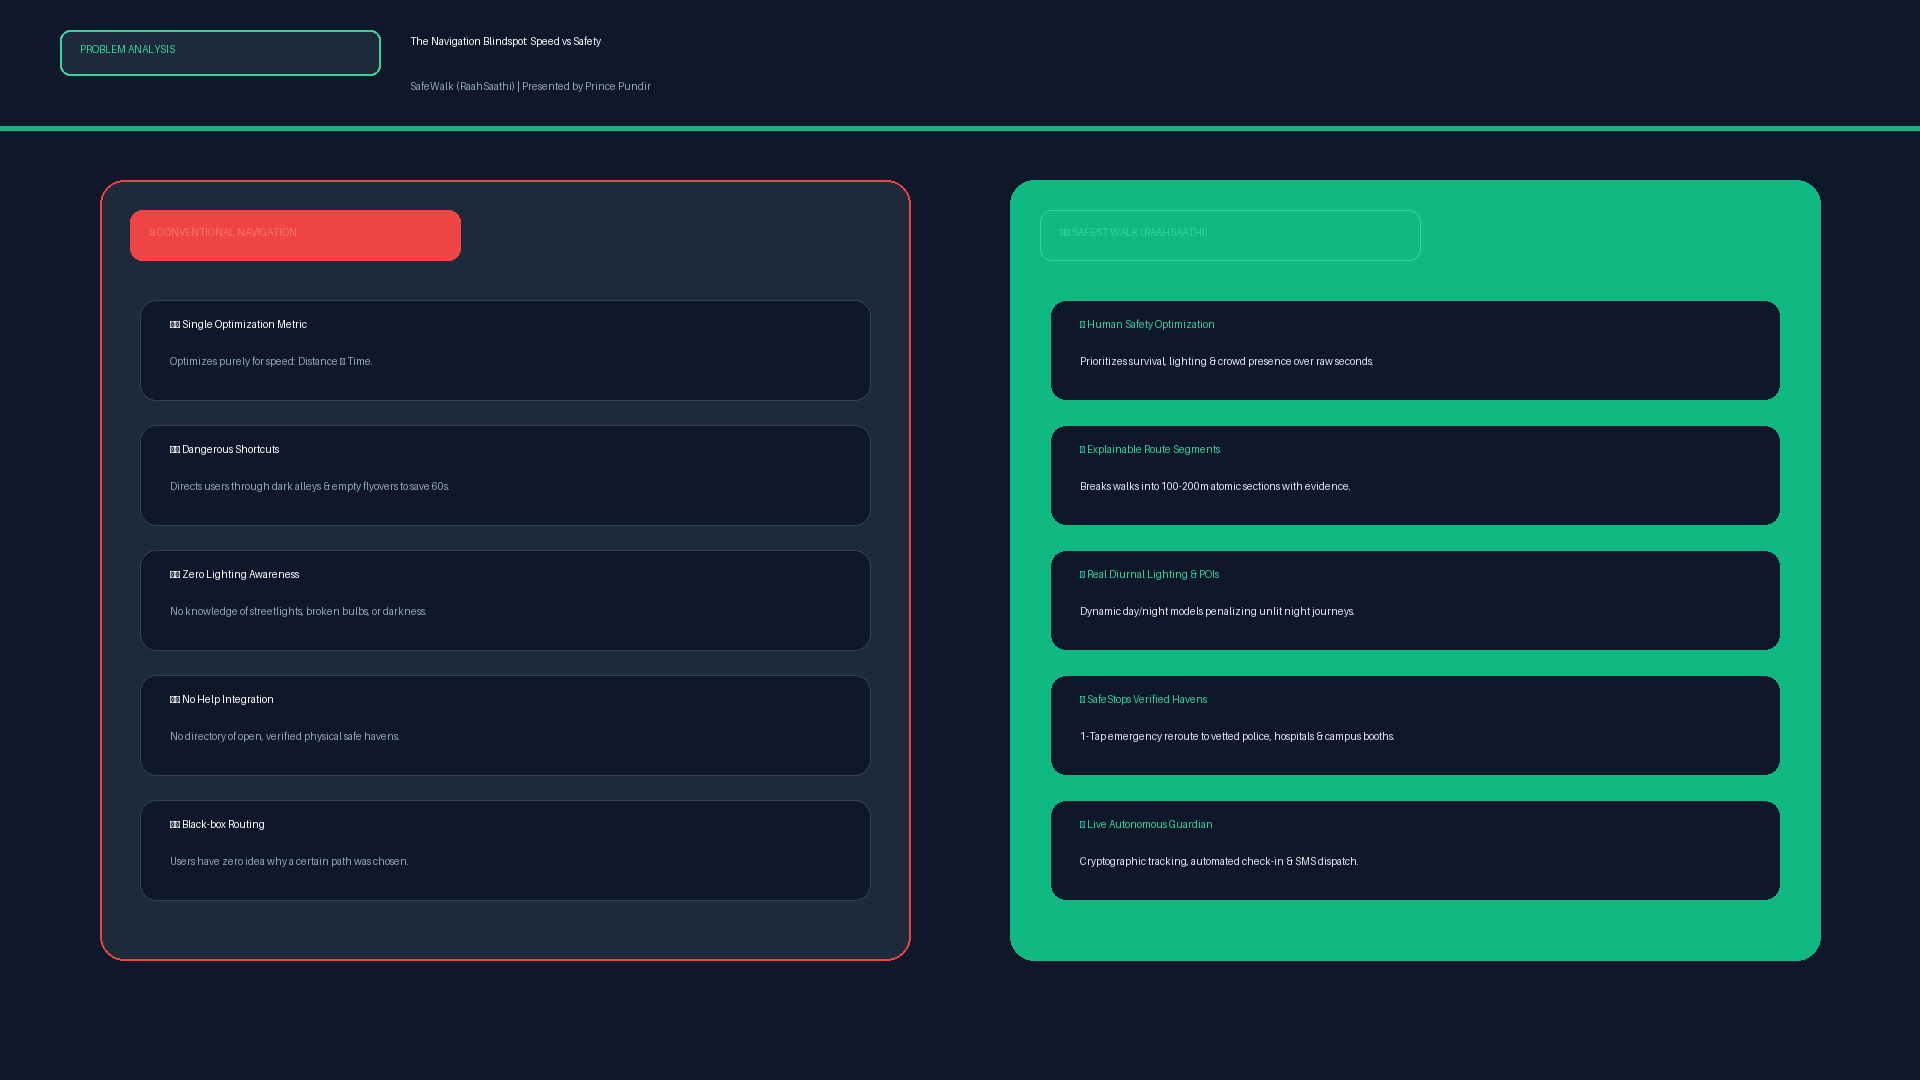
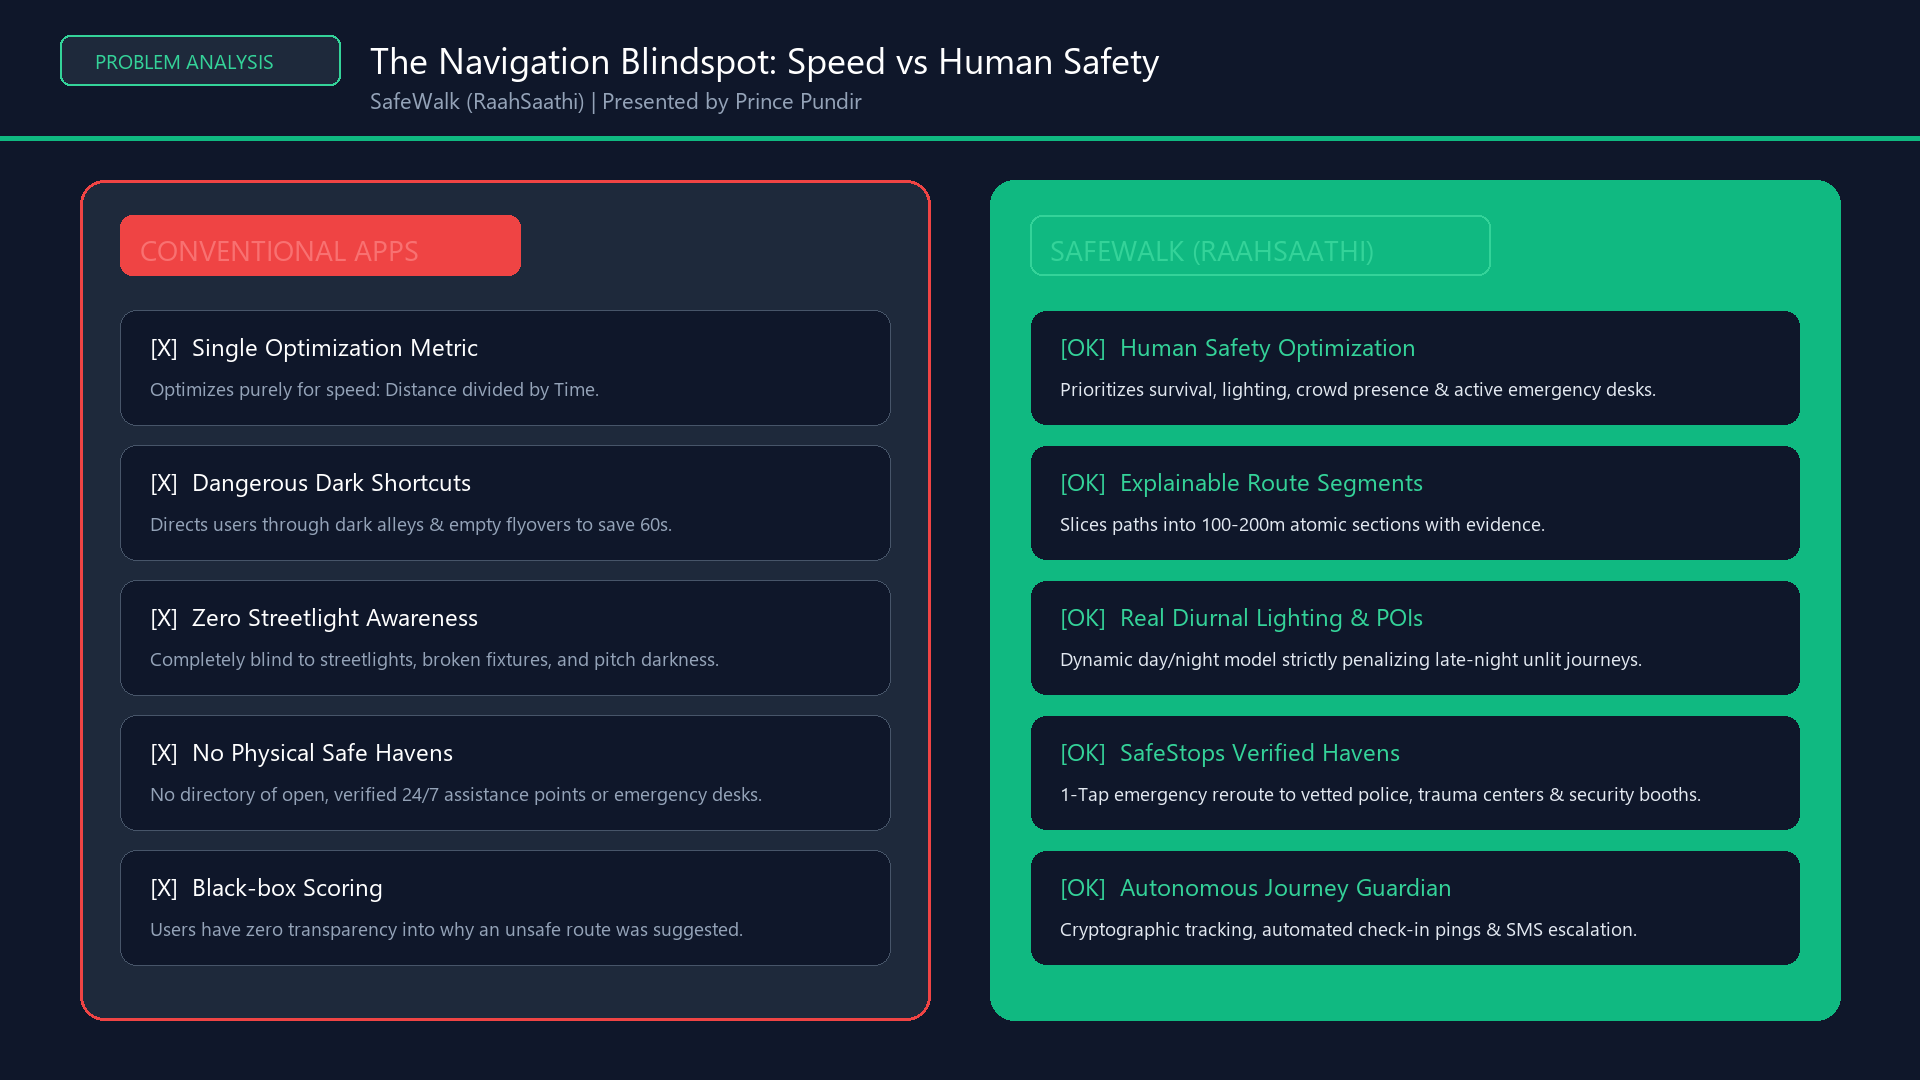
style(docs): enhance typography and legibility of problem matrix and architecture screenshots

diff --git a/render_crisp_graphics.py b/render_crisp_graphics.py
@@ -1,0 +1,139 @@
+import os
+from PIL import Image, ImageDraw, ImageFont
+
+W, H = 1920, 1080
+os.makedirs("docs/screenshots", exist_ok=True)
+os.makedirs("video-production/graphics", exist_ok=True)
+
+# Crisp large fonts
+font_title = ImageFont.truetype("segoeui.ttf", 36)
+font_subtitle = ImageFont.truetype("segoeui.ttf", 22)
+font_category = ImageFont.truetype("segoeui.ttf", 20)
+font_col_header = ImageFont.truetype("segoeui.ttf", 28)
+font_card_title = ImageFont.truetype("segoeui.ttf", 24)
+font_card_body = ImageFont.truetype("segoeui.ttf", 19)
+
+def draw_header(draw, title, category):
+    draw.rectangle([0, 0, W, 140], fill=(15, 23, 42, 255))
+    draw.rectangle([0, 136, W, 140], fill=(16, 185, 129, 255))
+    # Category Pill
+    draw.rounded_rectangle([60, 35, 340, 85], radius=10, fill=(30, 41, 59, 255), outline=(52, 211, 153, 255), width=2)
+    draw.text((95, 47), category, font=font_category, fill=(52, 211, 153, 255))
+    # Title & Subtitle
+    draw.text((370, 35), title, font=font_title, fill=(255, 255, 255, 255))
+    draw.text((370, 85), "SafeWalk (RaahSaathi) | Presented by Prince Pundir", font=font_subtitle, fill=(148, 163, 184, 255))
+
+def generate_crisp_graphic_01():
+    img = Image.new("RGBA", (W, H), (15, 23, 42, 255))
+    draw = ImageDraw.Draw(img)
+    draw_header(draw, "The Navigation Blindspot: Speed vs Human Safety", "PROBLEM ANALYSIS")
+
+    # Column 1: Conventional Navigation
+    draw.rounded_rectangle([80, 180, 930, 1020], radius=24, fill=(30, 41, 59, 240), outline=(239, 68, 68, 255), width=3)
+    draw.rounded_rectangle([120, 215, 520, 275], radius=12, fill=(239, 68, 68, 50), outline=(239, 68, 68, 200), width=2)
+    draw.text((140, 230), "CONVENTIONAL APPS", font=font_col_header, fill=(248, 113, 113, 255))
+    
+    p1 = [
+        ("Single Optimization Metric", "Optimizes purely for speed: Distance divided by Time."),
+        ("Dangerous Dark Shortcuts", "Directs users through dark alleys & empty flyovers to save 60s."),
+        ("Zero Streetlight Awareness", "Completely blind to streetlights, broken fixtures, and pitch darkness."),
+        ("No Physical Safe Havens", "No directory of open, verified 24/7 assistance points or emergency desks."),
+        ("Black-box Scoring", "Users have zero transparency into why an unsafe route was suggested.")
+    ]
+    for i, (hd, sub) in enumerate(p1):
+        y = 310 + i * 135
+        draw.rounded_rectangle([120, y, 890, y + 115], radius=16, fill=(15, 23, 42, 230), outline=(71, 85, 105, 200), width=1)
+        draw.text((150, y + 20), f"[X]  {hd}", font=font_card_title, fill=(255, 255, 255, 255))
+        draw.text((150, y + 65), sub, font=font_card_body, fill=(148, 163, 184, 255))
+
+    # Column 2: SafeWalk (RaahSaathi)
+    draw.rounded_rectangle([990, 180, 1840, 1020], radius=24, fill=(16, 185, 129, 25), outline=(16, 185, 129, 255), width=3)
+    draw.rounded_rectangle([1030, 215, 1490, 275], radius=12, fill=(16, 185, 129, 60), outline=(52, 211, 153, 220), width=2)
+    draw.text((1050, 230), "SAFEWALK (RAAHSAATHI)", font=font_col_header, fill=(52, 211, 153, 255))
+
+    p2 = [
+        ("Human Safety Optimization", "Prioritizes survival, lighting, crowd presence & active emergency desks."),
+        ("Explainable Route Segments", "Slices paths into 100-200m atomic sections with evidence."),
+        ("Real Diurnal Lighting & POIs", "Dynamic day/night model strictly penalizing late-night unlit journeys."),
+        ("SafeStops Verified Havens", "1-Tap emergency reroute to vetted police, trauma centers & security booths."),
+        ("Autonomous Journey Guardian", "Cryptographic tracking, automated check-in pings & SMS escalation.")
+    ]
+    for i, (hd, sub) in enumerate(p2):
+        y = 310 + i * 135
+        draw.rounded_rectangle([1030, y, 1800, y + 115], radius=16, fill=(15, 23, 42, 240), outline=(16, 185, 129, 160), width=1)
+        draw.text((1060, y + 20), f"[OK]  {hd}", font=font_card_title, fill=(52, 211, 153, 255))
+        draw.text((1060, y + 65), sub, font=font_card_body, fill=(226, 232, 240, 255))
+
+    img.convert("RGB").save("docs/screenshots/graphic_01_problem_matrix.png")
+    img.convert("RGB").save("video-production/graphics/graphic_01_problem_matrix.png")
+    print("Regenerated crisp graphic_01_problem_matrix.png with high-res typography!")
+
+def generate_crisp_graphic_02():
+    img = Image.new("RGBA", (W, H), (15, 23, 42, 255))
+    draw = ImageDraw.Draw(img)
+    draw_header(draw, "Under the Hood: Explainable Route Scoring Architecture", "SYSTEM ARCHITECTURE")
+
+    pillars = [
+        ("Streetlight Illumination", "Overpass OSM Surveys & Tag Parsing", "Weight: 25%", (56, 189, 248)),
+        ("Commercial Natural Footfall", "Active POIs, Chemists & Storefronts", "Weight: 30%", (52, 211, 153)),
+        ("Diurnal & Temporal Penalty", "Late-night continuous decay curve", "Weight: 25%", (251, 191, 36)),
+        ("Verified Incident Reports", "Community voting & official sources", "Weight: 20%", (248, 113, 113))
+    ]
+
+    for i, (name, desc, wt, col) in enumerate(pillars):
+        x = 80 + i * 445
+        draw.rounded_rectangle([x, 200, x + 415, 530], radius=20, fill=(30, 41, 59, 240), outline=col, width=2)
+        draw.rounded_rectangle([x + 20, 225, x + 160, 275], radius=8, fill=(15, 23, 42, 255), outline=col, width=1)
+        draw.text((x + 35, 238), f"Pillar {i+1}", font=font_subtitle, fill=col)
+        draw.text((x + 20, 300), name, font=font_card_title, fill=(255, 255, 255, 255))
+        draw.text((x + 20, 360), desc, font=font_card_body, fill=(148, 163, 184, 255))
+        draw.rounded_rectangle([x + 20, 440, x + 200, 495], radius=10, fill=(15, 23, 42, 220))
+        draw.text((x + 40, 455), wt, font=font_subtitle, fill=col)
+
+    draw.rounded_rectangle([80, 580, 1840, 1000], radius=20, fill=(15, 23, 42, 240), outline=(52, 211, 153, 200), width=2)
+    draw.text((120, 615), "THE TWO-DIMENSION COMPUTATION: SAFETY SCORE vs CONFIDENCE AUDIT", font=font_card_title, fill=(52, 211, 153, 255))
+
+    boxes = [
+        ("1. OSRM Road Geometry", "Continuous walking polyline", 120),
+        ("2. Spatial Segmenter", "100-200m atomic road sections", 540),
+        ("3. Confidence Engine", "Separates missing data from safety", 960),
+        ("4. Explainable Audit", "Transparent audit trail for user", 1380)
+    ]
+    for title, sub, bx in boxes:
+        draw.rounded_rectangle([bx, 680, bx + 360, 930], radius=16, fill=(30, 41, 59, 255), outline=(71, 85, 105, 255), width=2)
+        draw.text((bx + 25, 720), title, font=font_card_title, fill=(255, 255, 255, 255))
+        draw.text((bx + 25, 780), sub, font=font_card_body, fill=(148, 163, 184, 255))
+
+    img.convert("RGB").save("docs/screenshots/graphic_02_architecture.png")
+    img.convert("RGB").save("video-production/graphics/graphic_02_architecture.png")
+    print("Regenerated crisp graphic_02_architecture.png!")
+
+def generate_crisp_graphic_03():
+    img = Image.new("RGBA", (W, H), (15, 23, 42, 255))
+    draw = ImageDraw.Draw(img)
+    draw_header(draw, "Live Journey Guardian: Cryptographic Tracking & Escalation", "SECURITY & PRIVACY")
+
+    steps = [
+        ("1. Explicit User Consent", "User opts in and configures check-in interval (e.g. 5m) and grace period (2m).", (52, 211, 153)),
+        ("2. Cryptographic Token Issuance", "32-byte high-entropy token generated. Database IDs never exposed. SHA-256 hashed.", (56, 189, 248)),
+        ("3. Automated Ping Cycle", "Periodic 'Are you okay?' notification. 1-tap reset countdown timer.", (251, 191, 36)),
+        ("4. Autonomous Escalation", "Missed check-in or panic trigger dispatches simulated SMS alerts with last valid GPS.", (248, 113, 113)),
+        ("5. Guardian Acknowledgment", "Trusted contact taps 'I am responding' — user sees live response confirmation.", (168, 85, 247))
+    ]
+
+    for i, (title, desc, col) in enumerate(steps):
+        y = 180 + i * 160
+        draw.rounded_rectangle([120, y, 1800, y + 130], radius=18, fill=(30, 41, 59, 240), outline=col, width=2)
+        draw.ellipse([150, y + 35, 215, y + 100], fill=col)
+        draw.text((172, y + 48), str(i+1), font=font_card_title, fill=(15, 23, 42, 255))
+        draw.text((245, y + 30), title, font=font_card_title, fill=(255, 255, 255, 255))
+        draw.text((245, y + 75), desc, font=font_card_body, fill=(203, 213, 225, 255))
+
+    img.convert("RGB").save("docs/screenshots/graphic_03_guardian_security.png")
+    img.convert("RGB").save("video-production/graphics/graphic_03_guardian_security.png")
+    print("Regenerated crisp graphic_03_guardian_security.png!")
+
+if __name__ == "__main__":
+    generate_crisp_graphic_01()
+    generate_crisp_graphic_02()
+    generate_crisp_graphic_03()
